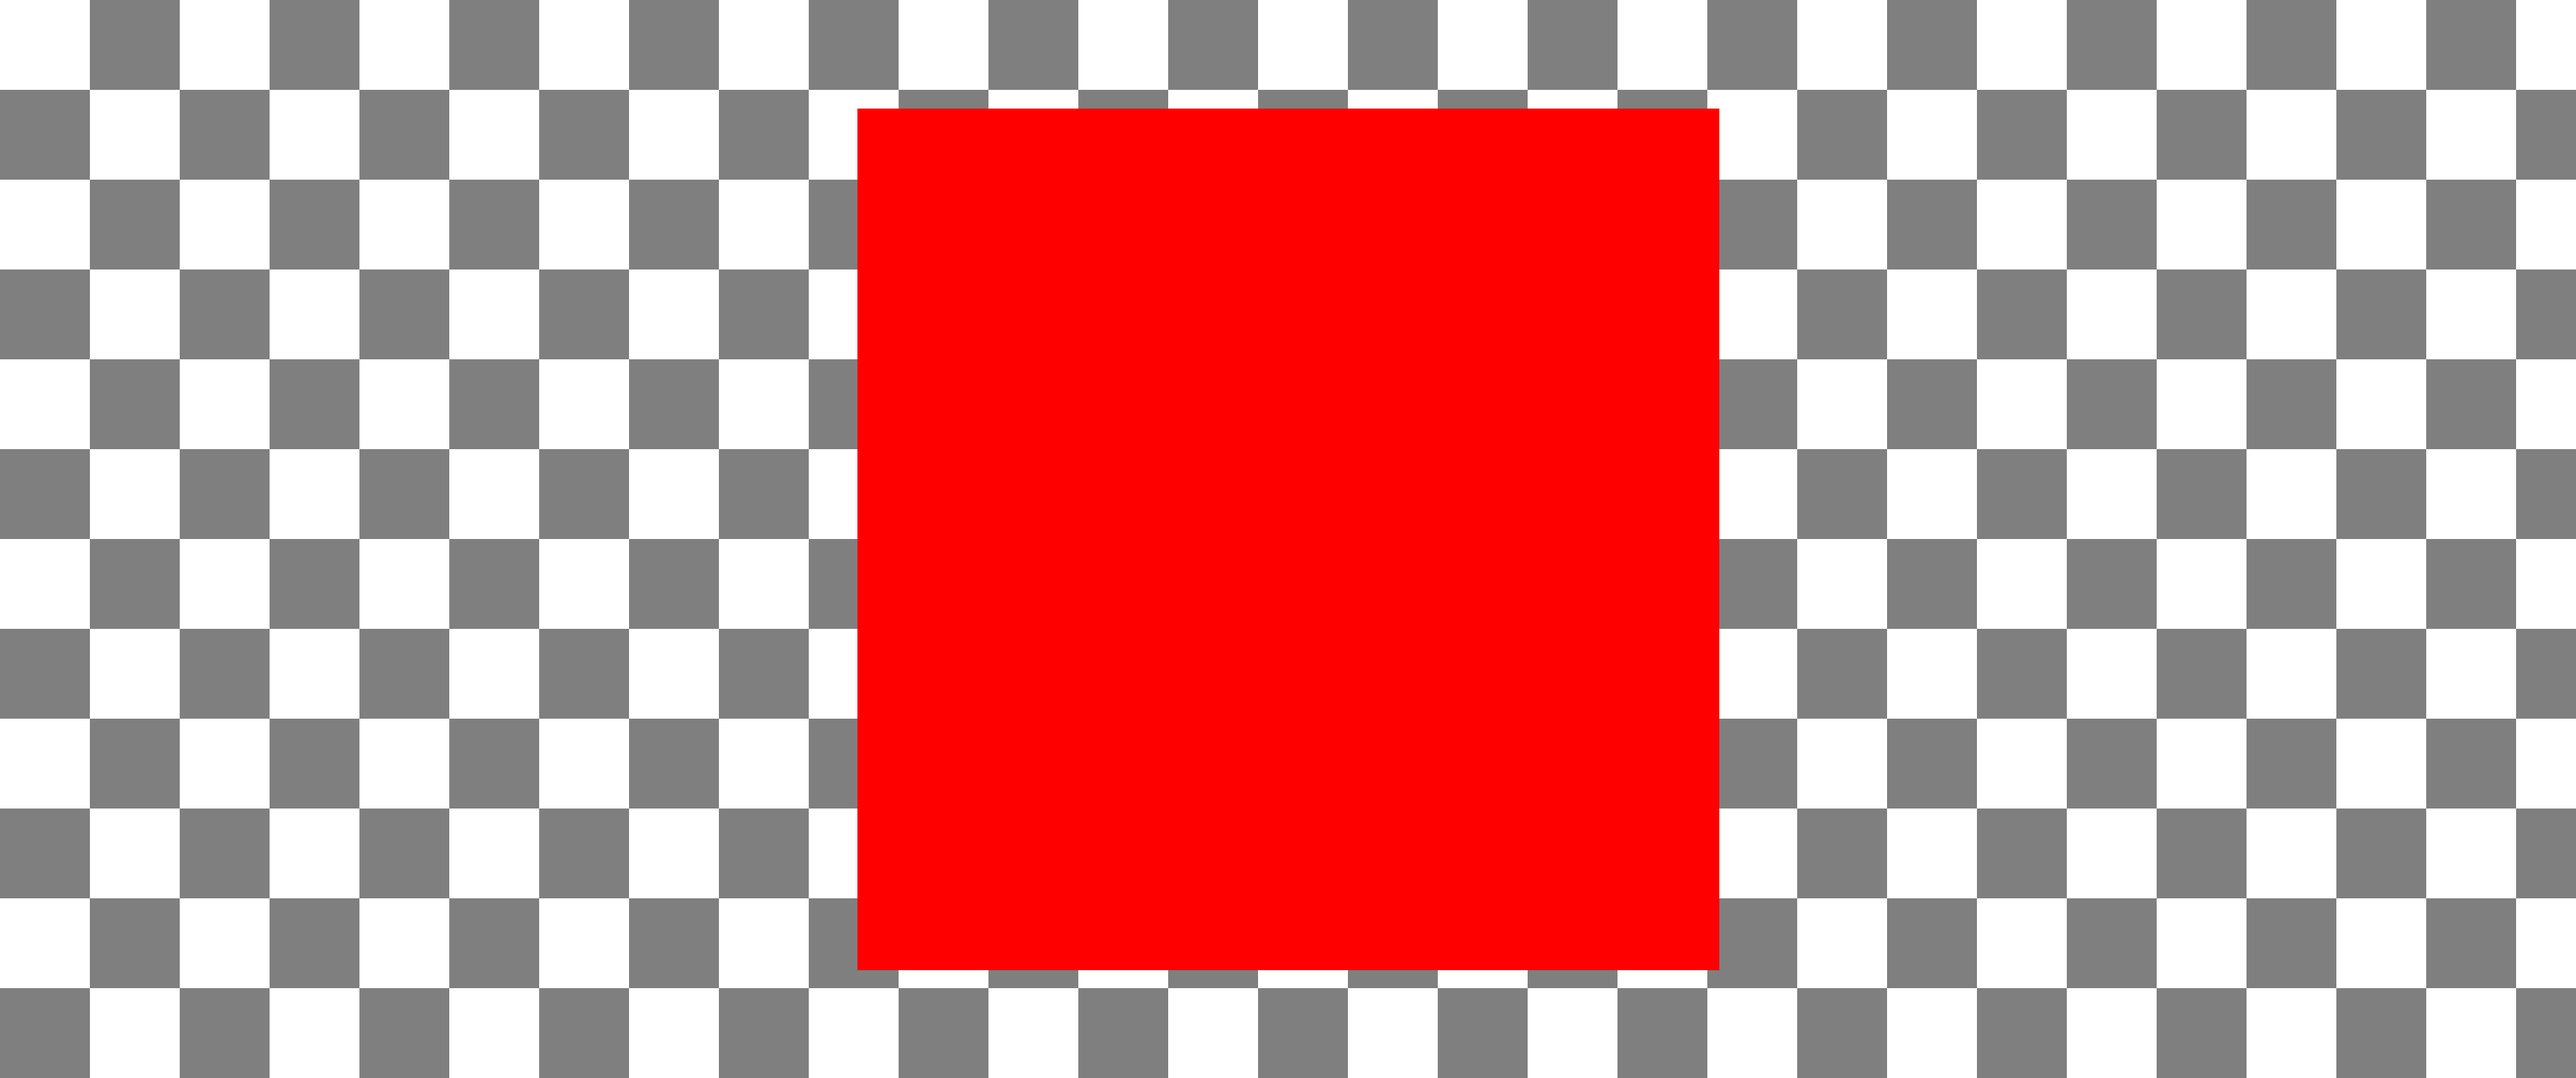
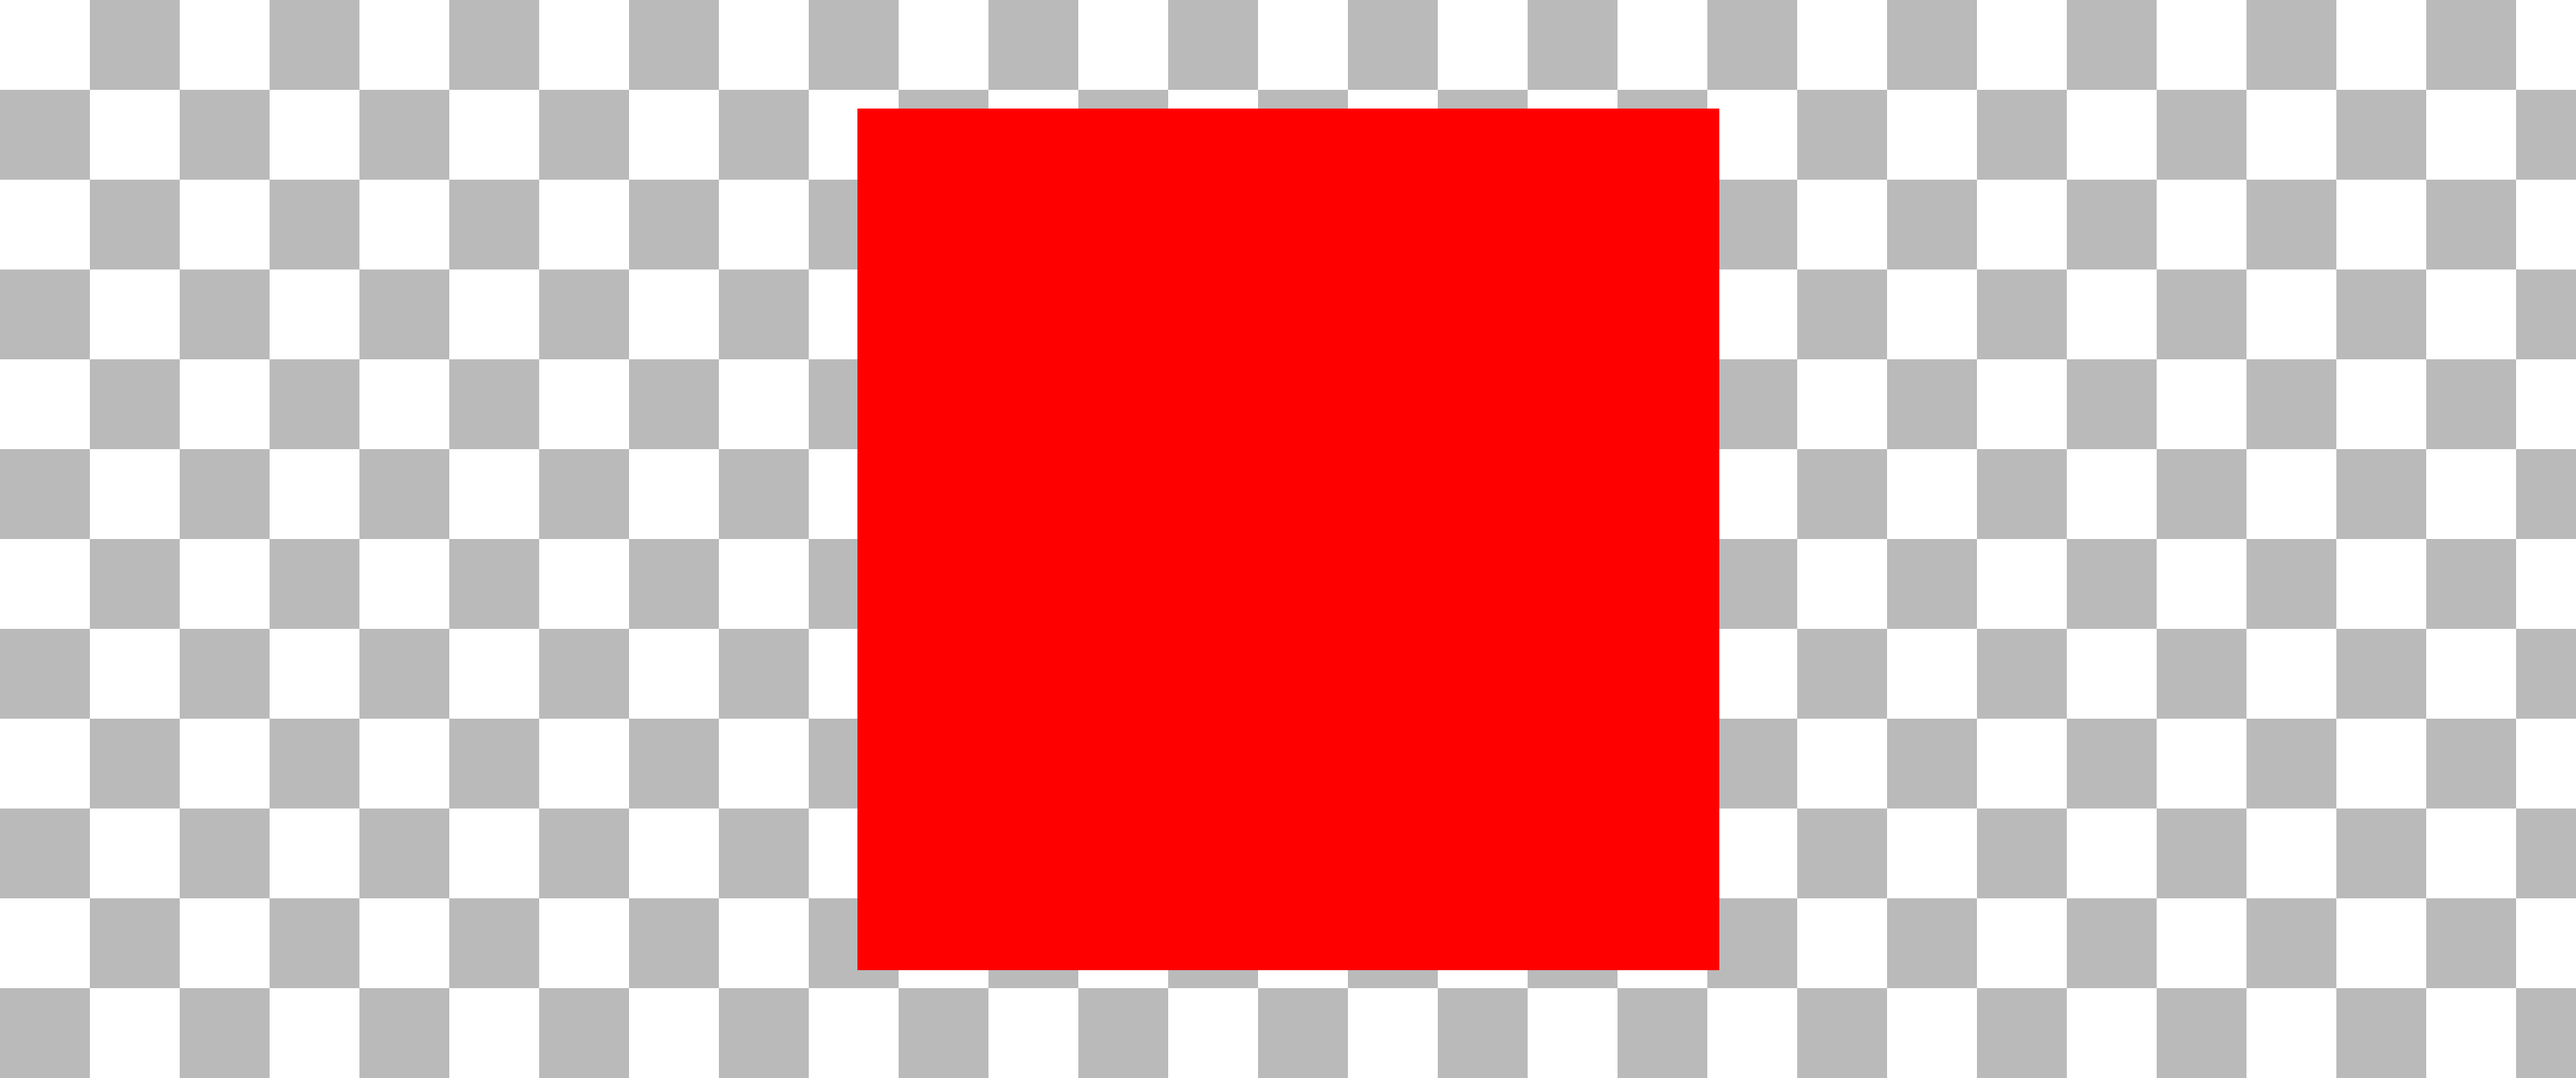
implemented gamma correction, created Circle class, implemented random circle creation, created drawCircle() function

diff --git a/src/lorenz875013/a01/Main.java b/src/lorenz875013/a01/Main.java
@@ -1,9 +1,9 @@
 package lorenz875013.a01;
 
+import cgtools.Random;
 import cgtools.Vec3;
 import static cgtools.Vec3.*;
 import java.io.IOException;
-import java.util.function.*;
 import lorenz875013.Image;
 
 public class Main {
@@ -14,9 +14,9 @@ public class Main {
         final int width = 3440;
         final int height = 1440;
 
-        /** static color **/
-
         Image image = new Image(width, height);
+
+        /** task 1.4 - draw static color and write image **/
 
         class ConstantColor {
             Vec3 color;
@@ -31,6 +31,7 @@ public class Main {
         }
 
         ConstantColor backgroundColor = new ConstantColor(Vec3.gray);
+
         for (int x = 0; x != width; x++) {
             for (int y = 0; y != height; y++) {
                 image.setPixel(x, y, backgroundColor.pixelColor(x, y));
@@ -39,7 +40,7 @@ public class Main {
 
         write(image, "doc/a01.png");
 
-        /** square image **/
+        /** task 1.5 - draw square in image center **/
 
         Image imageSquare = new Image(width, height);
 
@@ -76,7 +77,7 @@ public class Main {
 
         write(image, "doc/a01-square");
 
-        /** checkerboard **/
+        /** task 1.6 - checkerboard background with square in image center **/
 
         Image imageCheckerBoard = new Image(width, height);
 
@@ -104,6 +105,29 @@ public class Main {
         }
 
         write(imageCheckerBoard, "doc/a01-checkered-background.png");
+
+        /** task 2.1 - random circle creation **/
+
+        Image circleImage = new Image(width, height);
+
+        int circleAmount = 20;
+        Circle[] circles = new Circle[circleAmount];
+        Random rn = new Random(1337);
+
+        for (int i = 0; i < circleAmount; i++){
+            Vec3 circleColor = Vec3.vec3(rn.nextDouble(), rn.nextDouble(), rn.nextDouble());
+            circles[i] = new Circle(rn.nextDouble() * 10, rn.nextInt(), rn.nextInt(), circleColor);
+        }
+
+        for(Circle circle : circles){
+            drawCircle(circle, circleImage);
+        }
+
+    }
+
+    static Image drawCircle(Circle circle, Image image){
+
+        return image;
     }
 
     static void write(Image image, String filename) {
@@ -114,5 +138,4 @@ public class Main {
             System.out.println(String.format("Something went wrong writing: %s: %s", filename, error));
         }
     }
-
 }

diff --git a/src/lorenz875013/Image.java b/src/lorenz875013/Image.java
@@ -6,9 +6,10 @@ import cgtools.Vec3;
 import java.io.IOException;
 
 public class Image {
-    int width;
-    int height;
-    double[] image;
+    private int width;
+    private int height;
+    private double gamma = 2.2;
+    private double[] image;
 
     public Image(int width, int height) {
         this.image = new double[3 * (width * height)];
@@ -17,10 +18,16 @@ public class Image {
     }
 
     public void setPixel(int x, int y, Vec3 color) {
-        int pixelAdress = 3 * (y * width + x);
-        image[pixelAdress] = color.x;
-        image[pixelAdress + 1] = color.y;
-        image[pixelAdress + 2] = color.z;
+        int pixelAddress = 3 * (y * width + x);
+        image[pixelAddress] = gammaCorrect(color.x);
+        image[pixelAddress + 1] = gammaCorrect(color.y);
+        image[pixelAddress + 2] = gammaCorrect(color.z);
+    }
+
+    /** part of task 2.2 - gamma correction **/
+    public double gammaCorrect(double colorValue){
+        colorValue = Math.pow(colorValue, 1 / this.gamma);
+        return colorValue;
     }
 
     public void write(String filename) throws IOException {

diff --git a/src/lorenz875013/a01/Circle.java b/src/lorenz875013/a01/Circle.java
@@ -1,0 +1,17 @@
+package lorenz875013.a01;
+
+import cgtools.Vec3;
+
+public class Circle {
+    final double radius;
+    final int x;
+    final int y;
+    final Vec3 color;
+
+    public Circle(double radius, int x, int y, Vec3 color){
+        this.radius = radius;
+        this.x = x;
+        this.y = y;
+        this.color = color;
+    }
+}
